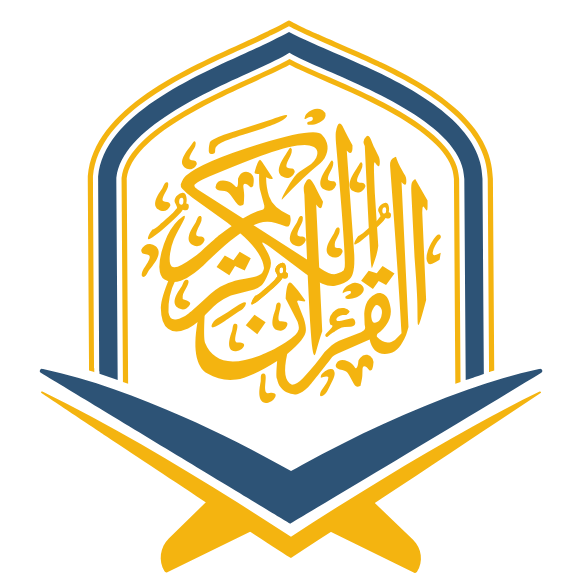
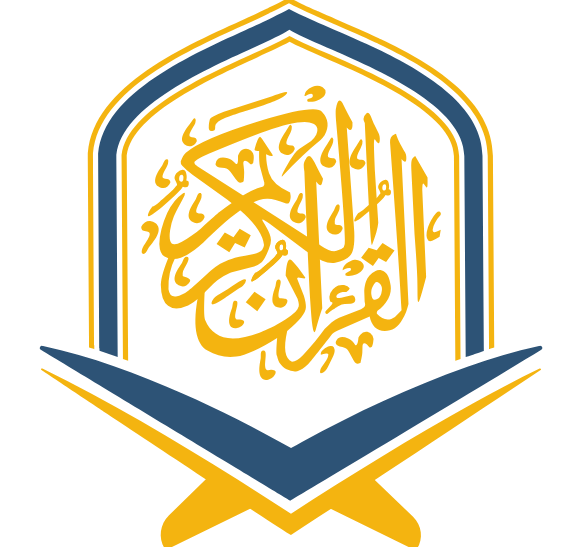
the new version came again11

diff --git a/src/pages/About.js b/src/pages/About.js
@@ -36,19 +36,19 @@ const About = () => {
     return (
         <div>
             <div className=' bg-light'>
-                <div className='py-[30px] container mx-auto px-5 md:px-[80px] lg:px-[120px]'>
+                <div className='py-[30px] container mx-auto px-8 md:px-[80px] lg:px-[120px]'>
                     {state &&
                         <div className=' flex flex-col gap-5 text-[20px]'>
                             <h2 className=' flex items-center gap-2 font-bold text-[30px]' >
                                 {!state ? ' who we are ' : 'من نحن '}
                                 <FaCheck />
                             </h2>
-                            <p className='bg-white shadow-md p-2' data-aos={'fade-up'}>مرحبًا بكم في أكاديمية قرآن واي طريقكم الموثوق لتعلم القرآن الكريم، واللغة العربية،
+                            <p className='bg-white shadow-md p-2 text-[16px] md:text-[18px]' data-aos={'fade-up'}>مرحبًا بكم في أكاديمية قرآن واي طريقكم الموثوق لتعلم القرآن الكريم، واللغة العربية،
                                 والتفسير، والدراسات الإسلامية. نفخر في بتقديم خدماتنا التعليمية لطلابنا في جميع أنحاء العالم
                                 ، بما في ذلك الولايات المتحدة الأمريكية، المملكة المتحدة، كندا، أستراليا،
                                 الإمارات العربية المتحدة، الهند، المملكة العربية السعودية، وغيرهم.
                             </p>
-                            <p className='bg-white shadow-md p-2 mt-[-20px]' data-aos={'fade-left'}>يضم فريقنا معلمين ومعلمات مؤهلين وذوي خبرة عالية، خريجو جامعة الأزهر الشريف،
+                            <p className='bg-white shadow-md p-2 text-[16px] md:text-[18px] mt-[-20px]' data-aos={'fade-left'}>يضم فريقنا معلمين ومعلمات مؤهلين وذوي خبرة عالية، خريجو جامعة الأزهر الشريف،
                                 حاصلون على الإجازة في التلاوة والاقراء وحفظ القرآن الكريم. معلمون كرّسوا أنفسهم لخدمة القرآن الكريم،
                                 فهو نورٌ يملأ الصدور ويضيء الأنفاس، يهدي به الله كل من يسعى لعلمه ، كباراً وصغاراً رجالاَ ونساءاً.
                                 في أكادميتنا نبذل كل جهد ممكن، ونستخدم كل وسيلة متاحة، لنقل رسالة القرآن وتعاليمه،
@@ -60,7 +60,7 @@ const About = () => {
                                 <img data-aos={'fade-up'} src={image3} alt="" className='p-2 bg-white   h-[200px]  xl:h-[250px] object-cover' />
                                 <img data-aos={'fade-down'} src={image4} alt="" className='p-2 bg-white   h-[200px]  xl:h-[250px] object-cover' />
                             </div>
-                            <p className='bg-white shadow-md p-2' data-aos={'fade-right'}>
+                            <p className='bg-white shadow-md p-2 text-[16px] md:text-[18px]' data-aos={'fade-right'}>
                                 . جعلنا غايتنا الأولى تعليم القرآن الكريم،
                                 فهو أسمى أهدافنا وأغلى أمانينا، ويحتل مركز اهتمامنا وأولى حاجاتنا. نحمل على عاتقنا مسؤولية عظيمة،
                                 وهي أن يكون طلابنا، بإذن الله، صالحين ومصلحين، راشدين يسعدون بالقرآن في الدنيا وينعمون ببركته في الآخرة.
@@ -71,12 +71,12 @@ const About = () => {
                                 وفعّالًا لجميع الأعمار والمستويات
 
                             </p>
-                            <p className='bg-white shadow-md p-2 mt-[-20px]' data-aos={'fade-up'}>
+                            <p className='bg-white shadow-md p-2 text-[16px] md:text-[18px] mt-[-20px]' data-aos={'fade-up'}>
                                 ملتزمون بتغذية عقول وقلوب طلابنا على حد سواء، باستخدام
                                 أساليب تدريس مبتكرة ومبدعة، مما يجعل التعلم ممتعًا،
                                 سهل الوصول، وفعّالًا لجميع الأعمار والمستويات
                             </p>
-                            <p className='bg-white shadow-md p-2 mt-[-20px]' data-aos={'fade-up'}>
+                            <p className='bg-white shadow-md p-2 text-[16px] md:text-[18px] mt-[-20px]' data-aos={'fade-up'}>
                                 في أكاديمية قرآن واي، نؤمن أن رسالتنا تتجاوز مجرد التعليم. نحن نسعى إلى تعزيز الأسر والمجتمعات
                                 المسلمة بنقل المعرفة الإسلامية والقيم والأخلاق. من خلال برامجنا، نطمح إلى خلق التغيير
                                 الإيجابي، وتعزيز الوحدة بين المسلمين، محاولين أن نكون عوناً
@@ -94,13 +94,13 @@ const About = () => {
                             {!state ? ' who we are ' : 'من نحن '}
                             <FaCheck />
                         </h2>
-                        <p className='bg-white shadow-md p-2' data-aos={'fade-up'}>Welcome to Quran Way Academy,
+                        <p className='bg-white shadow-md p-2 text-[16px] md:text-[18px]' data-aos={'fade-up'}>Welcome to Quran Way Academy,
                             your trusted path to learning the Qur’an,
                             Arabic, Tafseer, and Islamic studies. We proudly serve students across the globe,
                             including the USA, UK, Canada, Australia, UAE,
                             India, Saudi Arabia, and beyond
                         </p>
-                        <p className='bg-white shadow-md p-2 mt-[-20px]' data-aos={'fade-up'}
+                        <p className='bg-white shadow-md p-2 text-[16px] md:text-[18px] mt-[-20px]' data-aos={'fade-up'}
                         >
                             Our team of highly qualified and experienced teachers,
                             all graduates of the Al-Azhar University and qualified with
@@ -115,7 +115,7 @@ const About = () => {
                             <img data-aos={'fade-up'} src={image3} alt="" className='p-2 bg-white   h-[200px]  xl:h-[250px] object-cover' />
                             <img data-aos={'fade-up'} src={image4} alt="" className='p-2 bg-white   h-[200px]  xl:h-[250px] object-cover' />
                         </div>
-                        <p className='bg-white shadow-md p-2' data-aos={'fade-up'}>
+                        <p className='bg-white shadow-md p-2 text-[16px] md:text-[18px]' data-aos={'fade-up'}>
                             At Quran Way Academy, we believe that our mission goes beyond education.
                             We aim to strengthen Muslim families and communities by imparting Islamic knowledge, values,
                             and character.

diff --git a/src/components/PricingComp.js b/src/components/PricingComp.js
@@ -16,13 +16,13 @@ const PricingComp = () => {
 
                 <FaCheck />
             </h2>
-            <div className=' container mx-auto px-3 md:px-[70px] lg:px-[120px] '>
+            <div className=' container mx-auto px-8 md:px-[70px] lg:px-[120px] '>
                 <div>
                     <div className='flex justify-between gap-3 mb-6'>
                         {!state ? pricing.map(item =>
                             <Link id={item.id} onClick={(e) => setCurrentid((Number(e.target.id))
                             )}
-                                className={`p-2 md:p-3 text-[16px] md:text-[20px] lg:text-[22px] ${item.id === currentid ? 'bg-secondary text-white' : ' bg-white text-primary'}
+                                className={`p-2 md:p-3 text-[15px] md:text-[20px] lg:text-[22px] ${item.id === currentid ? 'bg-secondary text-white' : ' bg-white text-primary'}
                             border capitalize font-bold 
                              flex-1 text-center 
                              transition-all duration-300 ease-in-out`}
@@ -32,7 +32,7 @@ const PricingComp = () => {
                         ) : pricingArabic.map(item =>
                             <Link id={item.id} onClick={(e) => setCurrentid((Number(e.target.id))
                             )}
-                                className={` p-2 md:p-3 text-[16px] md:text-[20px] lg:text-[22px] ${item.id === currentid ? 'bg-secondary text-white' : ' bg-white text-primary'}
+                                className={` p-2 md:p-3 text-[15px] md:text-[20px] lg:text-[22px] ${item.id === currentid ? 'bg-secondary text-white' : ' bg-white text-primary'}
                             border capitalize font-bold 
                              flex-1 text-center 
                              transition-all duration-300 ease-in-out`}
@@ -47,28 +47,28 @@ const PricingComp = () => {
                     <div className='  grid ld:grid-cols-3 xl:grid-cols-4  grid-cols-2 gap-4'>
                         {state ? pricingArabic[currentid - 1].classes.map(item =>
                             <div key={item.id}
-                                className={` ${currentid === 1 ? 'pricing-1' : currentid === 2 ? 'pricing-2' : 'pricing-3'} rev-item gap-2  flex-col flex gap border  bg-white p-2`}>
-                                <h3 className=' font-bold capitalize lg:text-[20px] text-[16px] p-3 py-3 bg-primary text-white'>
+                                className={` ${currentid === 1 ? 'pricing-1' : currentid === 2 ? 'pricing-2' : 'pricing-3'}  gap-2  flex-col flex gap border border-gray-300  bg-white p-2`}>
+                                <h3 className=' font-bold capitalize lg:text-[20px] text-[15px] p-3 py-3 bg-primary text-white'>
 
                                     <span className=' lg:text-[25px] text-[18px] font-bold'>{item.numberperweek}</span>
                                     الأسبوع
 
                                 </h3>
-                                <p className='lg:text-[18px] text-[16px] bg-secondary text-white p-3'>
+                                <p className='lg:text-[18px] text-[15px] bg-secondary text-white p-3'>
                                     <span className=' lg:text-[25px] text-[18px] font-bold'>{item.cost}</span>الشهر</p>
 
                                 <span style={{ backgroundColor: '#eee' }}
-                                    className='capitalize block p-3 lg:text-[18px] text-[16px]'>
+                                    className='capitalize block p-3 lg:text-[18px] text-[15px]'>
                                     <span className='lg:text-[25px] text-[18px] font-bold'>{item.numberpermonth}
                                     </span>الشهر</span>
                                 <p style={{ backgroundColor: '#eee' }}
-                                    className='capitalize p-3 lg:text-[20px] text-[16px]'>
+                                    className='capitalize p-3 lg:text-[20px] text-[15px]'>
                                     <span className='lg:text-[25px] text-[18px] font-bold'>{item.costforclass}</span>الحصة</p>
                             </div>)
                             : pricing[currentid - 1].classes.map(item =>
                                 <div key={item.id}
-                                    className={` ${currentid === 1 ? 'pricing-1' : currentid === 2 ? 'pricing-2' : 'pricing-3'} rev-item gap-2   flex-col flex gap border  bg-white p-2`}>
-                                    <h3 className=' font-normal capitalize lg:text-[20px] text-[16px] p-3 py-3 bg-primary text-white'>
+                                    className={` ${currentid === 1 ? 'pricing-1' : currentid === 2 ? 'pricing-2' : 'pricing-3'}  gap-2   flex-col flex gap border border-gray-300 bg-white p-2`}>
+                                    <h3 className=' font-normal capitalize lg:text-[20px] text-[15px] p-3 py-3 bg-primary text-white'>
                                         <span className=' lg:text-[25px] text-[18px] font-bold'>
                                             {item.numberperweek}
                                         </span>
@@ -78,10 +78,10 @@ const PricingComp = () => {
                                         <span className='lg:text-[25px] text-[18px] font-bold'>{item.cost}</span>month</p>
 
                                     <span style={{ backgroundColor: '#eee' }}
-                                        className='capitalize block p-3 lg:text-[20px] text-[16px]'>
+                                        className='capitalize block p-3 lg:text-[20px] text-[15px]'>
                                         <span className='lg:text-[25px] text-[18px] font-bold'>{item.numberpermonth}</span>month</span>
                                     <p style={{ backgroundColor: '#eee' }}
-                                        className='capitalize p-3 lg:text-[20px] text-[16px]'>
+                                        className='capitalize p-3 lg:text-[20px] text-[15px]'>
                                         <span className='lg:text-[25px] text-[18px] font-bold'>{item.costforclass}</span>class</p>
                                 </div>)}
                     </div>

diff --git a/src/components/Landing.js b/src/components/Landing.js
@@ -12,6 +12,7 @@ import { Navigation, Pagination, Autoplay } from 'swiper/modules';
 import { useSelector } from 'react-redux';
 import { useState } from 'react';
 import Slideshow from './SlideShow';
+import { Link } from 'react-router-dom';
 const Landing = () => {
     const [change, setChange] = useState(false)
     const lang = useSelector(state => state.lang.arabic)
@@ -44,7 +45,8 @@ const Landing = () => {
                             <p className=' text-[20px] md:text-[25px]'>Study the Islamic rulings related to daily practices and the
                                 essentials that every Muslim must know,
                                 with enjoyable, easy, and engaging lessons suitable for both children and adults</p>
-                            <button className='mt-3 btn-pri'>start learning now</button>
+                            <a href='https://wa.me/201013864939' target='_blank '>
+                                <button className='mt-3 btn-pri'>Start your free trail now!</button></a>
 
                         </div>
                     </div>
@@ -57,7 +59,8 @@ const Landing = () => {
                                 with specialized teachers. Our recitation sessions help you
                                 practice correct pronunciation and apply the rules of Tajweed
                             </p>
-                            <button className='mt-3 btn-pri'>start learning now</button>
+                            <a href='https://wa.me/201013864939' target='_blank '>
+                                <button className='mt-3 btn-pri'>Start your free trail now!</button></a>
                         </div>
                     </div>
                 </SwiperSlide>
@@ -69,7 +72,8 @@ const Landing = () => {
                                 practice the Arabic language,
                                 including reading, writing, listening, and speaking
                             </p>
-                            <button className='mt-3 btn-pri capitalize'>start learning now</button>
+                            <a href='https://wa.me/201013864939' target='_blank '>
+                                <button className='mt-3 btn-pri capitalize'>Start your free trail now!</button></a>
 
                         </div>
                     </div>
@@ -93,8 +97,9 @@ const Landing = () => {
                             <h2 className=' lg:text-[42px] text-[32px]'> الدراسات الاسلامية</h2>
                             <p className=' text-[20px] md:text-[25px]'>دراسة الأحكام الشرعية المتعلقة بالممارسات اليومية
                                 وما يجب على كل مسلم معرفته، من خلال دروس ممتعة وسهلة مناسبة للصغار والكبار</p>
-                            <button className='mt-3 btn-pri'> ابدأ معنا الان</button>
-
+                            <a href='https://wa.me/201013864939' target='_blank '>
+                                <button className='mt-3 btn-pri'>ابدأ حصتك التجريبية الآن</button>
+                            </a>
                         </div>
                     </div>
                 </SwiperSlide>
@@ -105,8 +110,9 @@ const Landing = () => {
                             <p className=' text-[20px] md:text-[25px]'>تعلم قراءة القرآن الكريم بتجويد صحيح بطريقة بسيطة وفعّالة
                                 ، مع معلمين متخصصين. جلسات التلاوة
                                 تساعدك على ممارسة النطق السليم وتطبيق قواعد التجويد</p>
-                            <button className='mt-3 btn-pri'> ابدأ معنا الان</button>
-                        </div>
+                            <a href='https://wa.me/201013864939' target='_blank '>
+                                <button className='mt-3 btn-pri'>ابدأ حصتك التجريبية الآن</button>
+                            </a>                        </div>
                     </div>
                 </SwiperSlide>
                 <SwiperSlide >
@@ -114,8 +120,9 @@ const Landing = () => {
                         <div className="testimonial  flex-1">
                             <h2 className=' lg:text-[42px] text-[32px]'>اللغة العربية</h2>
                             <p className=' text-[20px] md:text-[25px]'>"في أكاديمية قرآن واي، نوفر لك الفرصة لتعلم وممارسة اللغة العربية، بما في ذلك القراءة، الكتابة، الاستماع، والمحادثة."</p>
-                            <button className='mt-3 btn-pri'> ابدأ معنا الان</button>
-
+                            <a href='https://wa.me/201013864939' target='_blank '>
+                                <button className='mt-3 btn-pri'>ابدأ حصتك التجريبية الآن</button>
+                            </a>
                         </div>
                     </div>
                 </SwiperSlide>

diff --git a/src/pages/BlogDetails.js b/src/pages/BlogDetails.js
@@ -30,7 +30,7 @@ const BlogDetails = () => {
     return (
         <div className='details-page'>
             <div className=' details-page-content'>
-                <div className=' container px-7 md:px-[120px] mx-auto pb-[30px]'>
+                <div className=' container px-8 md:px-[120px] mx-auto pb-[30px]'>
                     <h2 className=' title lg:mb-[-130px] mb-[-70px] mt-[0px]'>
                         {blog?.title}
                     </h2>
@@ -74,7 +74,7 @@ const BlogDetails = () => {
                     </div>
                 </div>
             </div>
-            <div className=' container px-7  md:px-[120px] mx-auto pb-[70px]'>
+            <div className=' container px-8  md:px-[120px] mx-auto pb-[70px]'>
 
                 <div>
                     <h2 className=' text-[25px] font-bold my-[20px]'>{!state ? 'Relatd Blogs' : 'المواضيع ذات الصلة'}</h2>

diff --git a/src/components/Blogs.js b/src/components/Blogs.js
@@ -18,9 +18,9 @@ const BlogsComp = ({ slider }) => {
     const state = localStorage.getItem('lang') ? JSON.parse(localStorage.getItem('lang')) : lang
     return (
         <div className=' blogs bg-light   pb-[70px]'>
-            <div className=' mx-auto px-3 md:px-[70px] lg:px-[120px] container'>
+            <div className=' mx-auto px-7 md:px-[70px] lg:px-[120px] container'>
                 <div>
-                    <h2 className='title md:m-0 mb-5' >
+                    <h2 className='title ' style={slider ? { marginBottom: '20px' } : { marginBottom: '0' }}>
                         {state ? 'المدونات' : 'Our Blogs'}
                         <FaCheck className=' hidden md:inline-block' />
                     </h2>

diff --git a/src/components/Choose.js b/src/components/Choose.js
@@ -20,7 +20,7 @@ const Choose = () => {
                 {!state ? 'why choose us' : 'لماذا تختارنا'}
                 <FaCheck />
             </h2>
-            <div className=' text-center container mx-auto px-5 md:px-[70px] lg:px-[120px]'>
+            <div className=' text-center container mx-auto px-8 md:px-[70px] lg:px-[120px]'>
                 {state ? chooseArabic.map(item => <div className='item ' key={item.id} data-aos={item.aos}>
                     <img className=' w-[120px] h-[120px] object-contain mx-auto' src={item.image} alt="" />
                     <h3 className=' font-bold lg:text-[25px] text-[22px]'>{item.title}</h3>

diff --git a/src/components/Header.js b/src/components/Header.js
@@ -46,7 +46,7 @@ const Header = () => {
 
                 <div className="logo w-[200px]">
                     <Link to={'/'} className='  flex gap-1 items-center'>
-                        <img src={image} alt="logo" className={`${minmizelogo ? '' : ''} `} />
+                        <img src={image} alt="logo" className={`${minmizelogo ? '' : ''} h-[80px] w-[80px] md:h-[100px] md:w-[100px] `} />
                         <span className={` md:text-[22px] text-[18px]  
                         ${hidetext ? 'hide-text' : 'show-text'}  
                         font-bold text-[20px] relative`}>

diff --git a/src/components/Teachers.js b/src/components/Teachers.js
@@ -8,7 +8,7 @@ const TeachersComp = () => {
     const state = localStorage.getItem('lang') ? JSON.parse(localStorage.getItem('lang')) : lang
     return (
         <div className=' teachers bg-light pb-[70px]'>
-            <div className=' container px-5 md:px-[80px] lg:px-[120px] mx-auto'>
+            <div className=' container px-7 md:px-[80px] lg:px-[120px] mx-auto'>
                 <h2 className=' title  flex items-center gap-2'>
                     {!state ? 'Our Teachers' : 'المعلمون'}
                     <FaCheck className=' font-bold ' />

diff --git a/src/components/Reviews.js b/src/components/Reviews.js
@@ -8,7 +8,7 @@ const Reviews = () => {
     const state = localStorage.getItem('lang') ? JSON.parse(localStorage.getItem('lang')) : lang
     return (
         <div className='Reviews bg-light'>
-            <div className=' container mx-auto px-3 md:px-[70px] lg:px-[120px] pb-[70px]'>
+            <div className=' container mx-auto px-8 md:px-[70px] lg:px-[120px] pb-[70px]'>
                 <h2 className='title'>
 
                     {state ? 'آراءالطلاب' : ' students Reviews'}

diff --git a/src/index.css b/src/index.css
@@ -254,8 +254,8 @@ header .logo img{
   background-color: white;
     object-fit: cover;
     position: relative;
-    width: 100px;
-    height: 100px;
+    /* width: 100px;
+    height: 100px; */
     object-fit: contain;
     z-index: 11;
 }
@@ -563,7 +563,7 @@ header ul li a:hover::after{
 @media (max-width: 768px) {
   .title {
     font-size: 32px; /* Smaller size for tablets */
-  padding: 30px 0;
+  padding: 25px 0;
   }
   .btn-pri , .btn-sec{
     font-size: 18px;

diff --git a/src/components/ProgComp.js b/src/components/ProgComp.js
@@ -14,7 +14,7 @@ const ProgComp = () => {
                 {state ? ' برامجنا المختلفة' : 'our programms'}
                 <FaCheck />
             </h2>
-            <div className=' container mx-auto px-3 md:px-[70px] lg:px-[120px]'>
+            <div className=' container mx-auto px-8 md:px-[70px] lg:px-[120px]'>
                 {!state ? progs.map(item =>
                     <div
                         data-aos={'fade-up'}

diff --git a/src/utils/data.js b/src/utils/data.js
@@ -1206,7 +1206,7 @@ export const pricingArabic = [
         plan: 'حصة  60 دقيقة',
         classes: [
             {
-                numberperweek: 'حصة واحدة/',
+                numberperweek: 'حصة/',
                 cost: '40 جنيه إسترليني/',
                 numberpermonth: '4 حصص/',
                 costforclass: '10£/',
